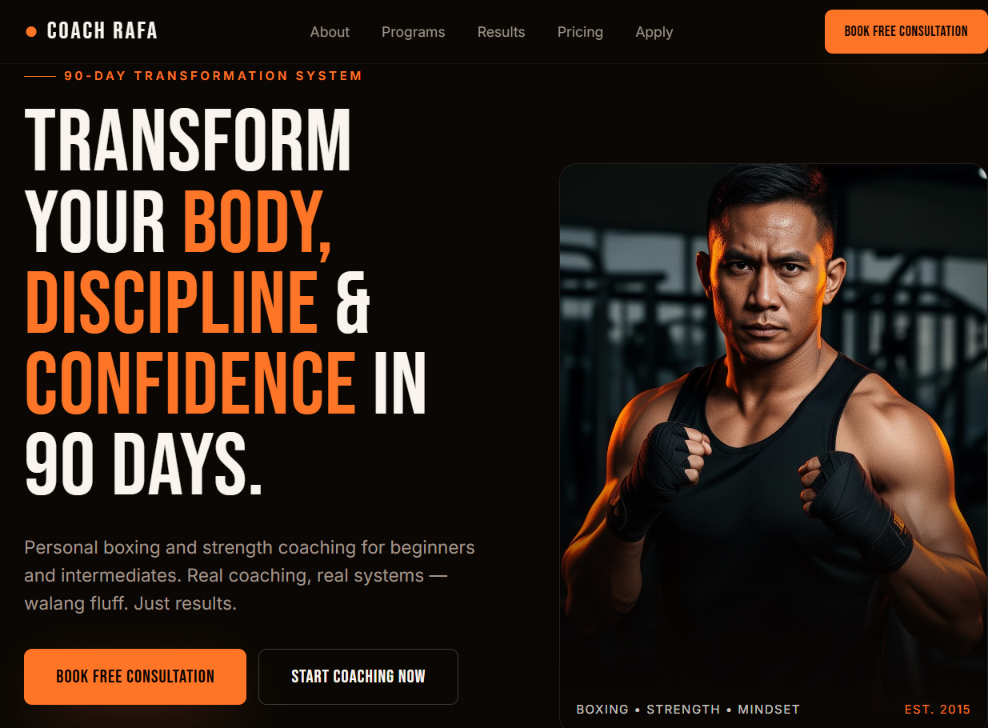
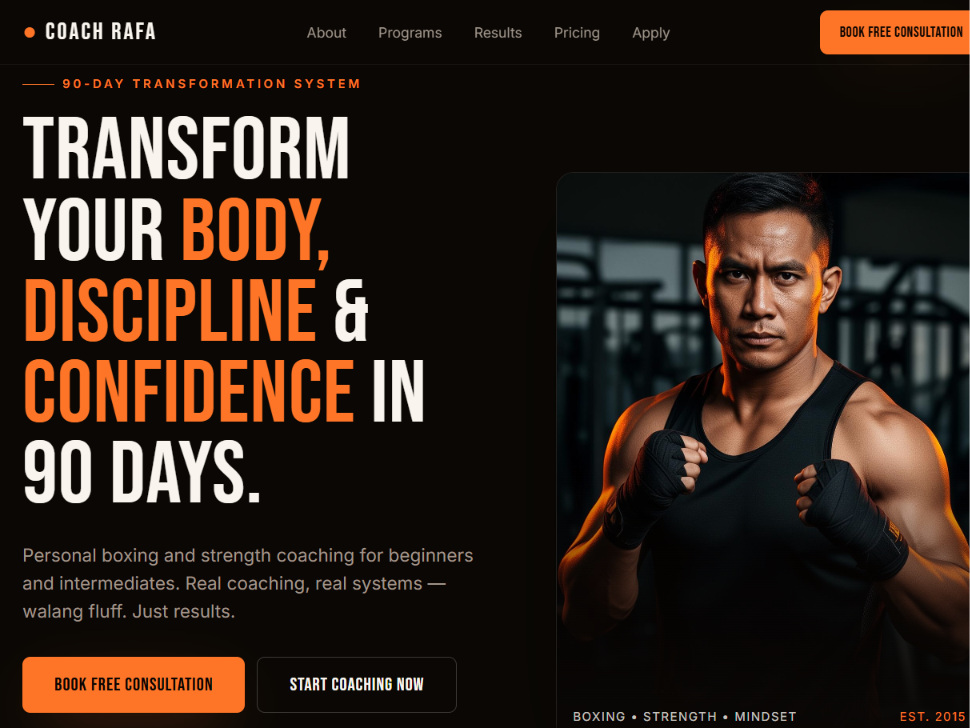
fisth commit

diff --git a/config/site.ts b/config/site.ts
@@ -110,13 +110,13 @@ export const siteConfig = {
       link: "https://coach-rafa.lovable.app/",
     },
     {
-      name: "Iron Fist MNL",
-      category: "CrossFit Box",
+      name: "IronForge",
+      category: "Gym Shop",
       result: "+150 trial sign-ups",
       description:
-        "Trainer profiles, social proof, and a sticky lead form built for mobile-first members.",
+        "Fitness Coach Shopping Website: Creatine, Whey Protien, Brand Shirt, Nutrition Plan, WOrkout Plan",
       image: "/images/project3.png",
-      link: "https://boxing-ph.lovable.app/",
+      link: "https://gym-shop-rho.vercel.app/",
     },
   ] as Project[],
 